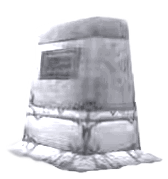
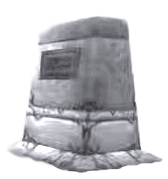
Dial back Iron Tomb brightness
Lower brightness from ~131 to ~105 mean; bump cache-buster to v=3.

diff --git a/src/data/bossConfigs.js b/src/data/bossConfigs.js
@@ -94,7 +94,7 @@ export const BOSS_CONFIGS = [
     bossSidebarItems: [
       { bossType: 'earthbreaker-haromm', label: 'Haromm',  img: '/bosses/EarthbreakerHaromm.png', color: '#996633', bgColor: '#0a0600' },
       { bossType: 'wavebinder-kardris',  label: 'Kardris', img: '/bosses/WaveBinderKardris.png',  color: '#3377cc', bgColor: '#000610' },
-      { bossType: 'iron-tomb',           label: 'Iron Tomb', img: '/bosses/irontomb.png?v=2',    color: '#888a8c', bgColor: '#0a0a0a' },
+      { bossType: 'iron-tomb',           label: 'Iron Tomb', img: '/bosses/irontomb.png?v=3',    color: '#888a8c', bgColor: '#0a0a0a' },
       FOUL_MANIF,
       DEFAULT_ADD,
     ],

diff --git a/src/data/bosses.js b/src/data/bosses.js
@@ -23,7 +23,7 @@ export const BOSS_IMAGES = {
   'garrosh-hellscream':    '/bosses/GarroshHellscream_1.png',
   'earthbreaker-haromm':   '/bosses/EarthbreakerHaromm.png',
   'wavebinder-kardris':    '/bosses/WaveBinderKardris.png',
-  'iron-tomb':             '/bosses/irontomb.png?v=2',
+  'iron-tomb':             '/bosses/irontomb.png?v=3',
   'general-nazgrim':       '/bosses/General Nazgrim.png',
   'naz-mage':              '/bosses/Nazmage.png',
   'naz-common':            '/bosses/Nazcommon.png',
